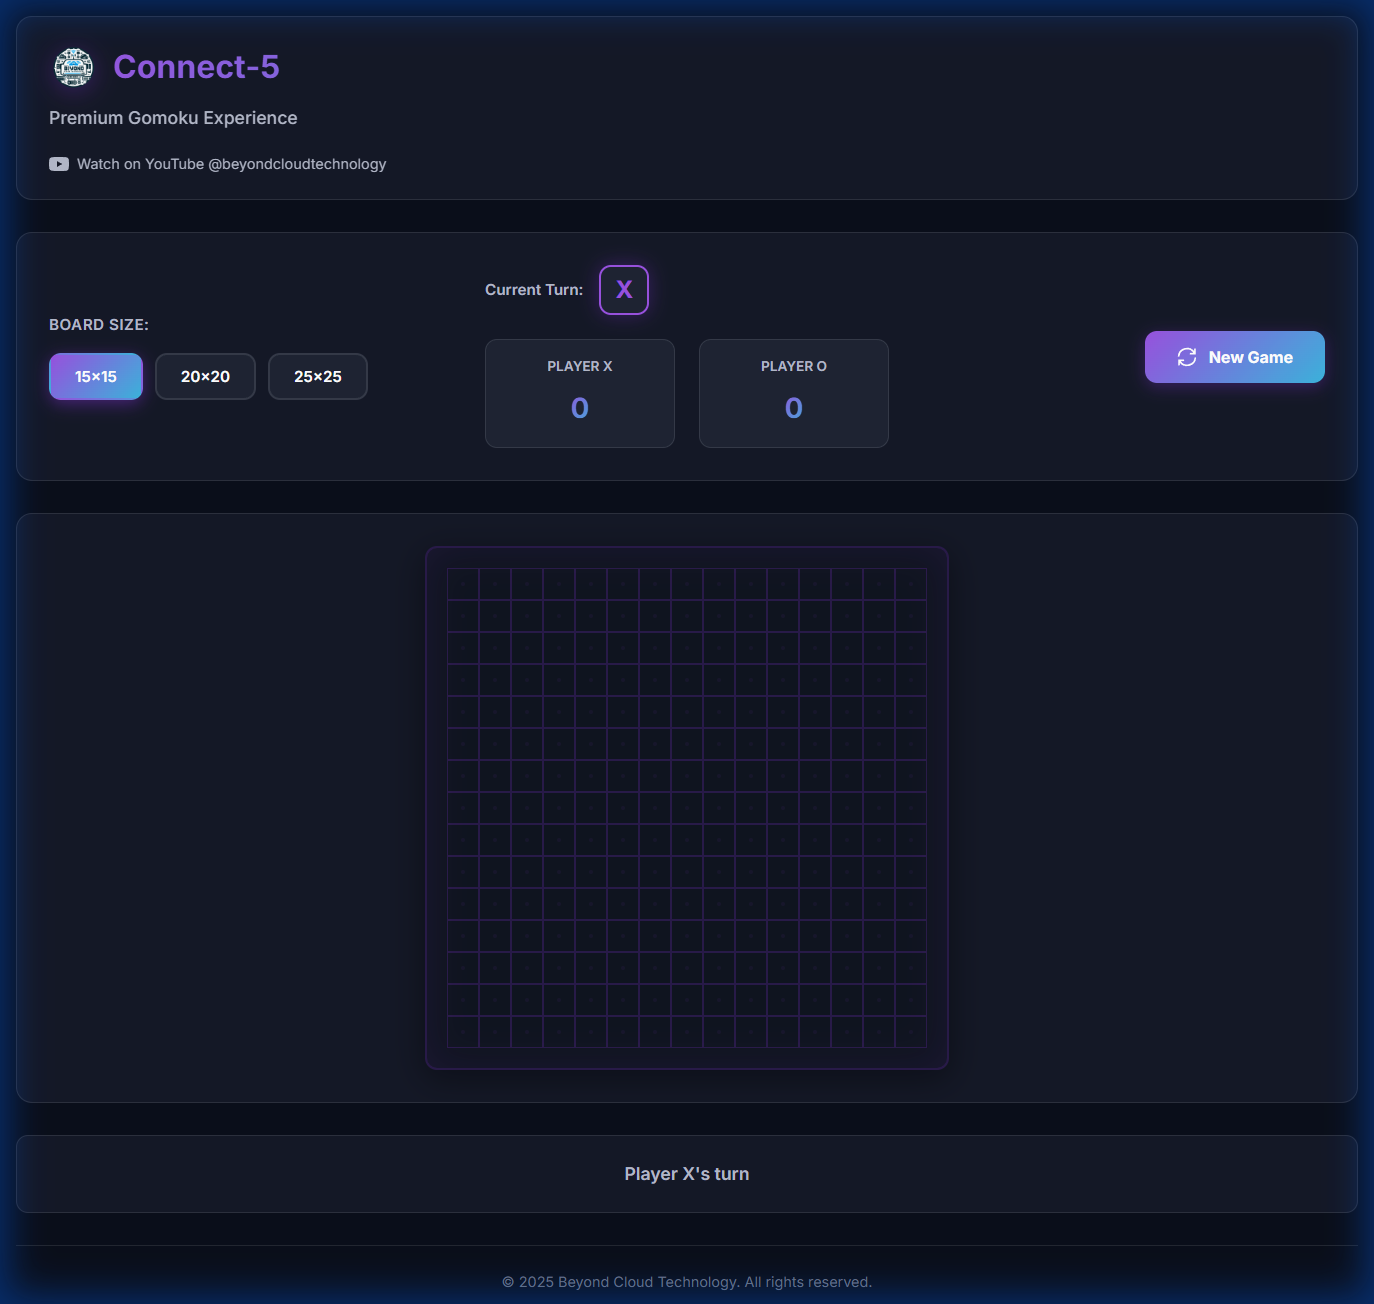
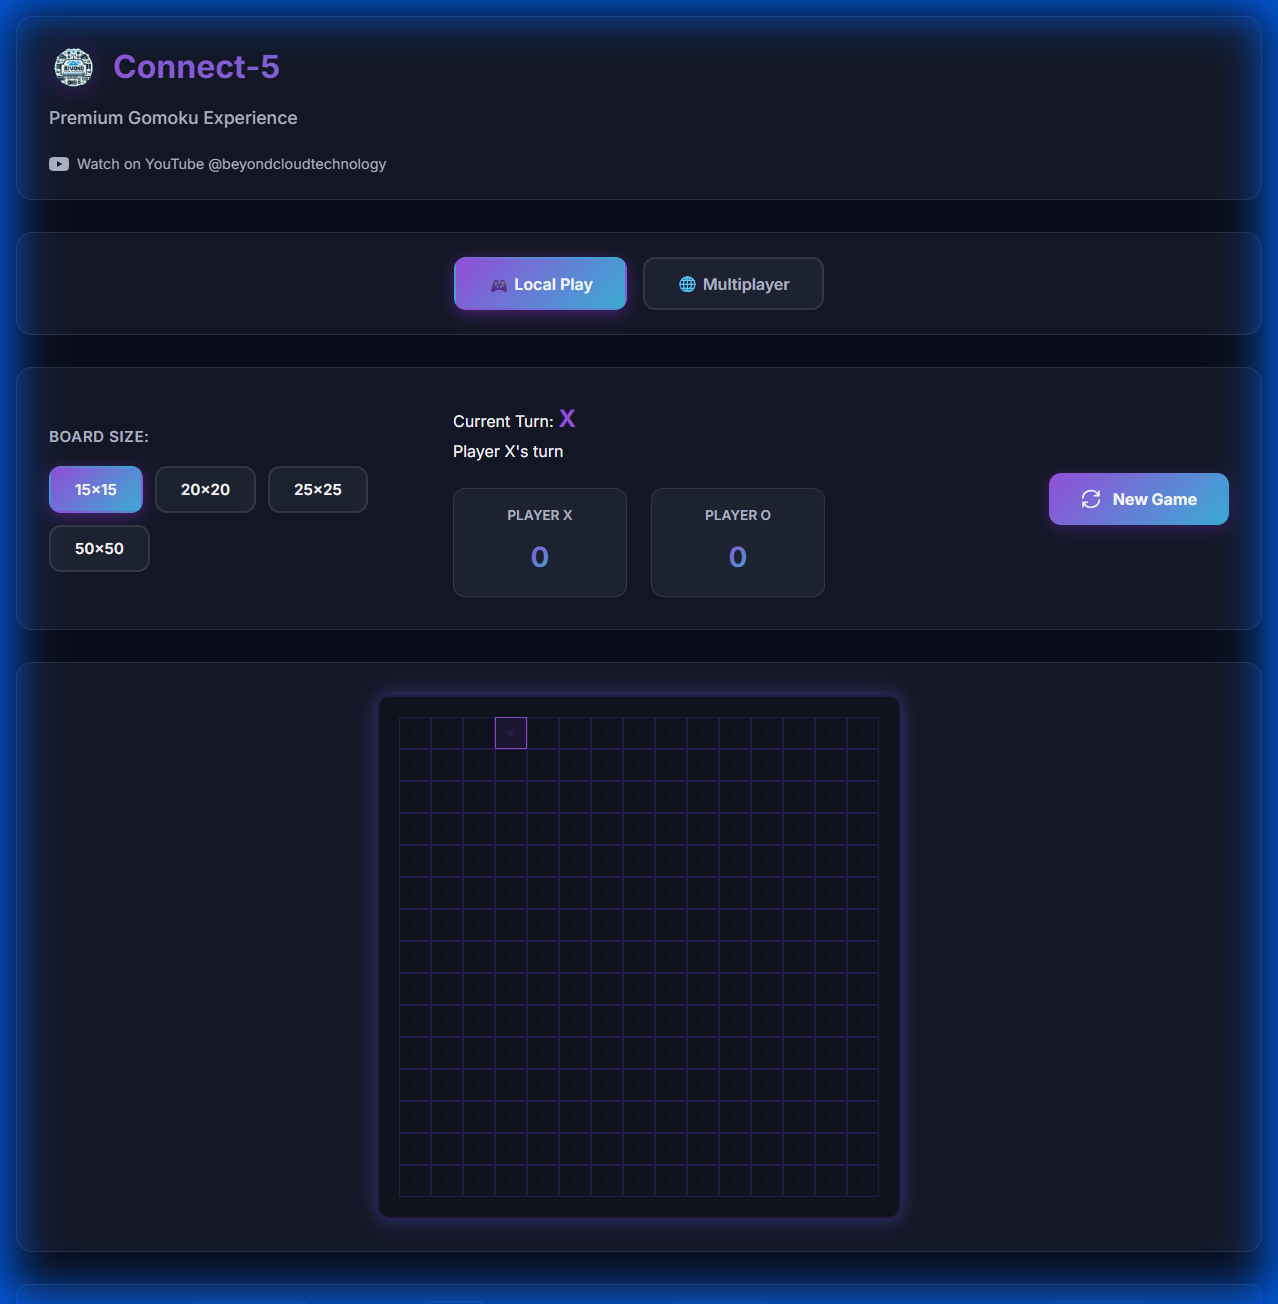
docs: update README with new screenshots for Ghost Piece, Board Glow, and Surrender Modal

Changed region(s): [[0.0, 0.0, 1.0, 1.0], [0.3357, 0.184, 0.6408, 0.3988], [0.5493, 0.3681, 0.6103, 0.3988]]

diff --git a/README.md b/README.md
@@ -22,31 +22,69 @@ A beautiful, feature-rich implementation of the classic Connect-5 (Gomoku) game 
 ## ✨ Features
 
 ### 🎯 Game Modes
-- **Local Play**: Play against friends on the same device.
-- **Real-Time Multiplayer**: Challenge players online with instant move synchronization.
-- **Multiple Board Sizes**: Choose from 15×15, 20×20, 25×25, or 50×50 grids.
+- **Local Play**: Play against friends on the same device with smooth turn-based gameplay
+- **Real-Time Multiplayer**: Challenge players worldwide with <50ms move synchronization
+- **Multiple Board Sizes**: Tactical variety with 15×15, 20×20, 25×25, or epic 50×50 grids
+- **Smart Matchmaking**: Player lobby with live stats (Wins/Losses/Draws) for informed challenges
 
-### 🏳 Surrender & Rematch (NEW)
-- **Surrender Option**: Realizing you're beaten? gracefully forfeit the game with the "Surrender" button to save time.
-- **Instant Rematch**: After a game ends, challenge your opponent to a rematch instantly from the Game Over screen.
-- **Seamless Flow**: Both players are kept in sync during surrender or rematch negotiations.
+### 🌐 Multiplayer Features (NEW & ENHANCED)
 
-### 🛡 Reliability (NEW)
-- **Smart Reconnects**: If you lose internet or refresh the page, you are **instantly placed back in your active game** with the board restored.
-- **Game State Protection**: No more abandoned games due to minor connection blips.
-- **Race Condition Handling**: Robust server-logic preventing errors during rapid interactions.
+#### Core Multiplayer
+- **Live Player Lobby**: See all online players with real-time presence indicators
+- **Challenge System**: Send and receive game invitations with instant notifications
+- **Player Statistics**: Track your performance with persistent win/loss/draw records
+- **Auto-Login**: Username persistence across sessions with 30-day cookie storage
+- **Profanity Filter**: Family-friendly environment with bad-words filtering
+
+#### 🏳 Surrender & Rematch (NEW)
+- **Graceful Surrender**: End hopeless games early with the Surrender button
+  - Confirmation modal prevents accidental surrenders
+  - Immediate stats update (counts as loss for surrenderer, win for opponent)
+  - Both players notified instantly
+- **Instant Rematch**: Challenge the same opponent immediately after any game
+  - "Challenge Again" button in Game Over modal
+  - Full negotiation flow (accept/decline)
+  - Preserves board size preference
+  - No need to return to lobby between rematches
+
+#### 🛡 Reliability & State Management (NEW)
+- **Smart Disconnect Handling**: 30-second grace period for network blips
+  - Automatic reconnection on internet restoration
+  - Full board state restoration (all moves preserved)
+  - Seamless resume even with new socket connection
+- **Game State Protection**: No more abandoned games from accidental refreshes
+- **Race Condition Prevention**: Server-side state locks prevent double-actions
+- **Session Recovery**: Resume active games automatically on page reload
 
 ### 🎨 Premium Design
-- **Graphing Paper Aesthetic**: Beautiful dark theme with clean lines.
-- **Smooth Animations**: Polished piece placement and victory effects.
-- **Glassmorphism UI**: Modern, translucent interface elements.
-- **Responsive Design**: Works seamlessly on desktop and mobile devices.
+- **Graphing Paper Aesthetic**: Beautiful dark theme with precision grid lines
+- **Smooth Animations**: 
+  - Polished piece placement with scale effects
+  - Victory sequence highlighting with glow effects
+  - Modal transitions with glassmorphism
+- **Modern UI Components**:
+  - Glassmorphism overlays with backdrop blur
+  - Gradient accents and hover states
+  - Responsive button designs
+- **Cross-Platform**: Flawless experience on desktop, tablet, and mobile
+
+### 🎲 Gameplay Excellence
+- **8-Direction Win Detection**: Scan horizontal, vertical, and both diagonals
+- **Turn Indicators**: Clear visual feedback showing whose turn it is
+- **Win Highlighting**: Animated display of the winning 5-piece sequence
+- **Draw Detection**: Automatic detection when board is full
+- **Move Validation**: Client and server-side validation prevents invalid moves
+- **Persistent Scoring**: All games saved to PostgreSQL with complete move history
 
 ---
 
 ## 📸 Screenshots
 
 <div align="center">
+
+### Multiplayer Lobby
+![Multiplayer Lobby](screenshots/multiplayer_lobby.png)
+*Challenge players in real-time from the lobby*
 
 ### Local Game Mode
 ![Local Game](screenshots/local-game.png)
@@ -57,11 +95,9 @@ A beautiful, feature-rich implementation of the classic Connect-5 (Gomoku) game 
 ### Victory Screen
 ![Victory Screen](screenshots/victory-screen.png)
 
-### Surrender Feature
-![Surrender UI](screenshots/surrender_ui.png)
-
-### Rematch Feature
-![Rematch Modal](screenshots/rematch_modal.png)
+### Surrender Modal
+![Surrender Modal](screenshots/surrender-modal.png)
+*Gracefully end games with the new confirmation modal*
 
 </div>
 
